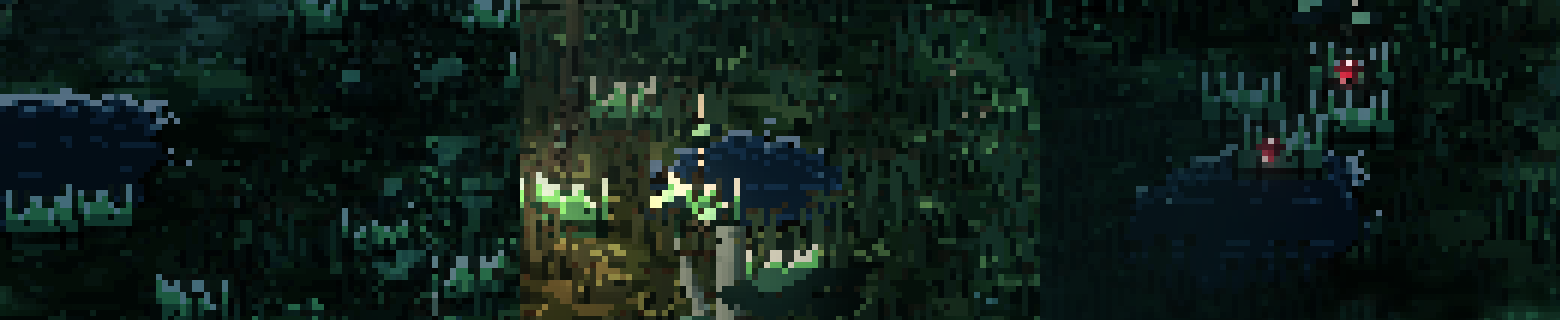
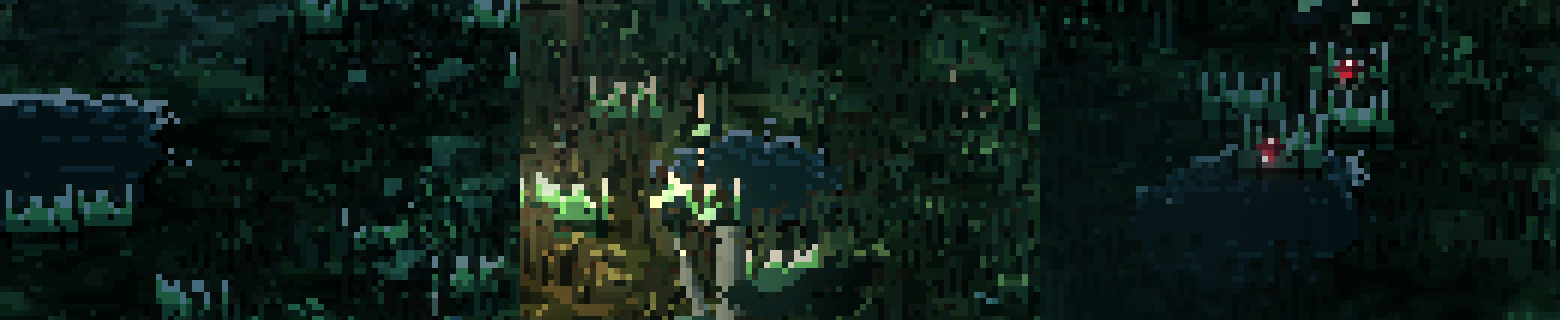
Ponds' water a step toward the bog's green-blue, a little darker than the floor (the art director, #257)
Claude-Session: https://claude.ai/code/session_01VVaLYY2sU2dqSozCTw7Z4G

diff --git a/src/render/ground.ts b/src/render/ground.ts
@@ -186,7 +186,7 @@ void main() {
       vec3 R = reflect(-V, vec3(0.0, 1.0, 0.0));
       vec3 moon = normalize(vec3(uMoonDir.x, uMoonDir.y, -abs(uMoonDir.z)));
       float spec = dot(R, moon) + (vnoise(px * vec2(0.6, 2.5) + vec2(uTime * 1.5, 0.0)) - 0.5) * 0.05;
-      vec3 water = vec3(0.035, 0.065, 0.1) * nightLight(vec3(0.0, 1.0, 0.0), vWorld) * 4.0; // dark, but water, not a hole (#235)
+      vec3 water = vec3(0.045, 0.08, 0.088) * nightLight(vec3(0.0, 1.0, 0.0), vWorld) * 4.0; // dark, but water, not a hole (#235)
       if (spec > 0.985) water = vec3(0.92, 0.95, 1.0);
       else if (spec > 0.965) water = vec3(0.45, 0.55, 0.7);
       else if (mod(px.y, 4.0) < 1.0 && vnoise(px / 3.0 + uTime) > 0.62) water += vec3(0.06, 0.08, 0.12); // ripples
